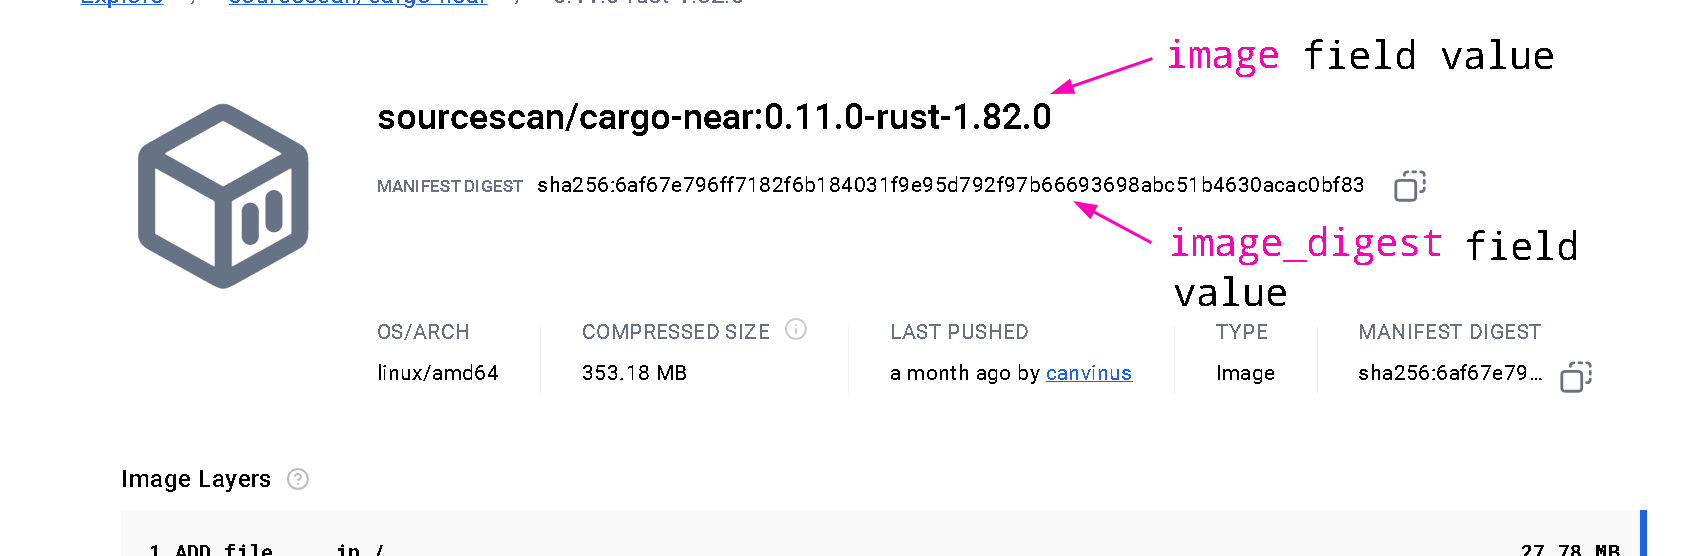
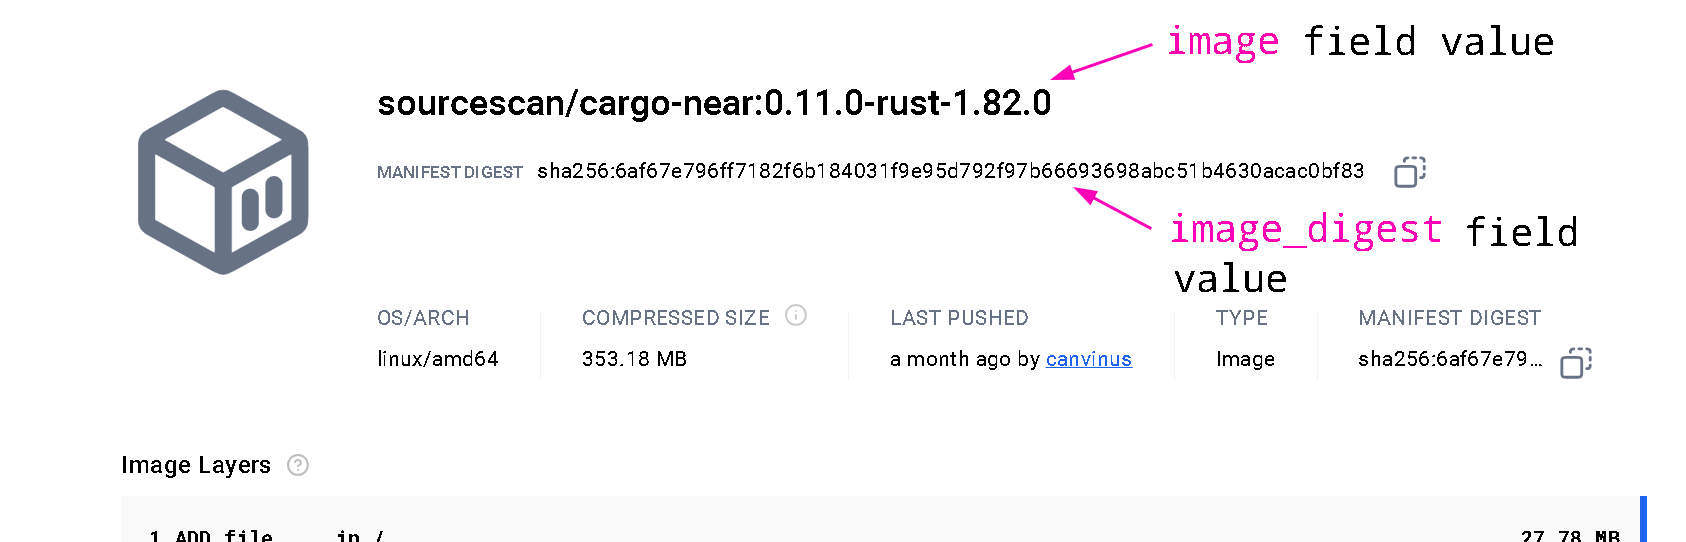
chore: trim pic and some links

diff --git a/README.md b/README.md
@@ -101,7 +101,7 @@ Builds a NEAR smart contract along with its [ABI](https://github.com/near/abi) (
 
 Running the above command opens a menu with following variants: 
 
-### **non-reproducible-wasm**
+### `non-reproducible-wasm`
 
 This is a regular build, which behaves much like and is a thin wrapper around a regular `cargo build --target wasm32-unknown-unknown --release`.
 
@@ -112,7 +112,7 @@ cargo near build non-reproducible-wasm --help
 ```
 if needed.
 
-### **reproducible-wasm** variant
+### `reproducible-wasm`
 
 This variant runs a reproducible build in a [Docker](https://docs.docker.com/) container, which:
 
@@ -171,13 +171,13 @@ Builds the smart contract (equivalent to `cargo near build`) and guides you to d
 
 Similar to `build`, running the above command opens a menu with following variants: 
 
-### **build-non-reproducible-wasm**
+### `build-non-reproducible-wasm`
 
 This forwards to [non-reproducible-wasm](#non-reproducible-wasm) variant of `build` command.
 
-### **build-reproducible-wasm**
+### `build-reproducible-wasm`
 
-This forwards to [reproducible-wasm-variant](#reproducible-wasm-variant) variant of `build` command.
+This forwards to [reproducible-wasm](#reproducible-wasm) variant of `build` command.
 
 `deploy` command from Docker build requires that contract's source code:
 
